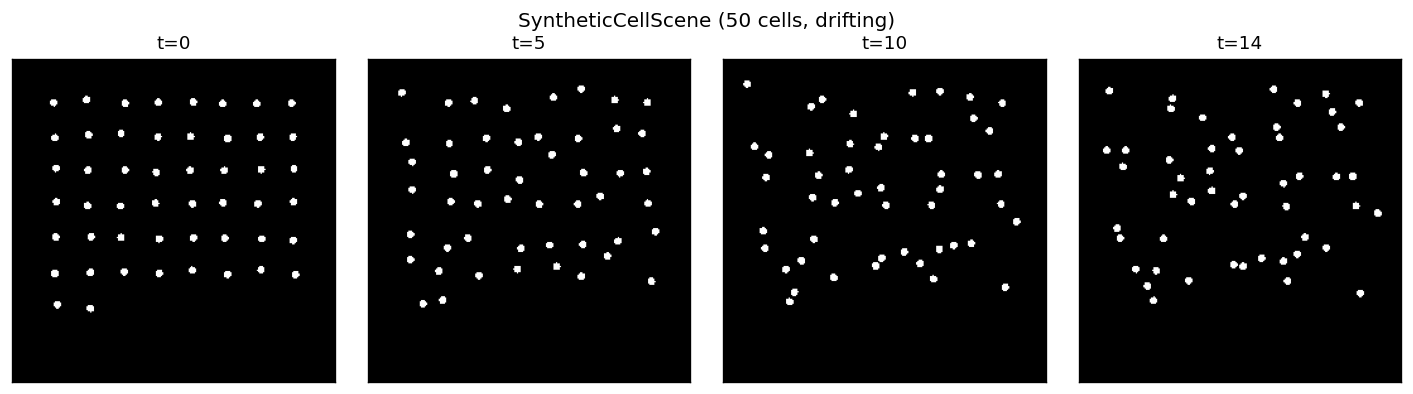
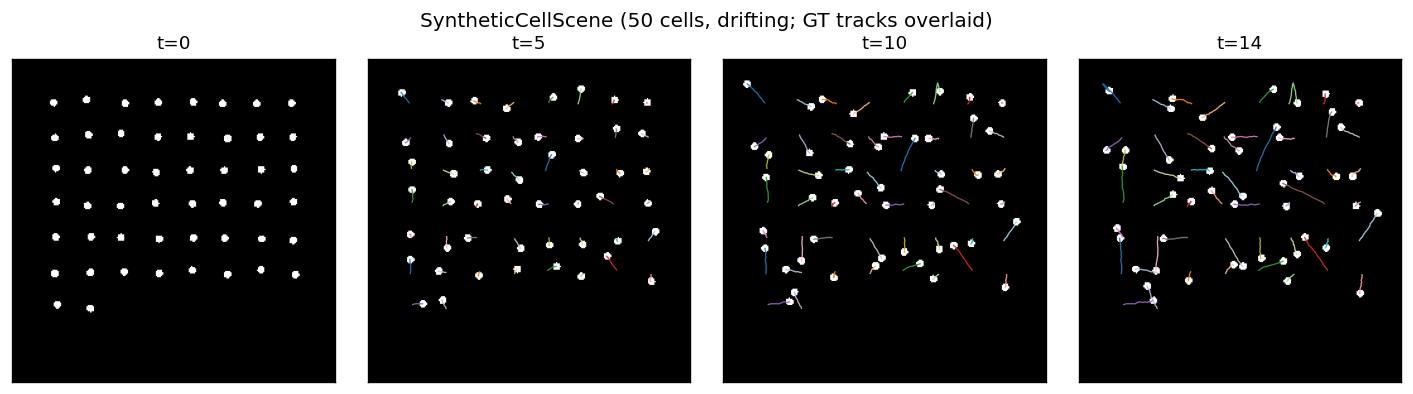
Overlay GT trajectories on synthetic-cells strip
Each cell now carries a coloured line showing its ground-truth path
up to frame t, so the strip conveys drift visually (not just 'these
dots moved') and matches what the tracking-accuracy test is actually
verifying.

diff --git a/tests/assets/generate.py b/tests/assets/generate.py
@@ -47,14 +47,25 @@ def circle_scene() -> None:
 
 def synthetic_cells_strip() -> None:
     scene = SyntheticCellScene(n_cells=50, n_frames=15)
+    gt = np.stack(scene.gt, axis=0)  # (T, N, 2) of (row, col)
+    n_cells = gt.shape[1]
+    cmap = plt.get_cmap("tab20")
+
     fig, axes = plt.subplots(1, 4, figsize=(12, 3.3), dpi=150)
     for ax, t in zip(axes, [0, 5, 10, 14]):
-        img = scene.render(MDAEvent(index={"t": t, "p": 0, "c": 0}))
-        ax.imshow(img, cmap="gray")
+        ax.imshow(scene.render(MDAEvent(index={"t": t, "p": 0, "c": 0})), cmap="gray")
+        if t > 0:
+            # Draw the GT trail up to frame t for every cell, color per cell.
+            for i in range(n_cells):
+                rows = gt[: t + 1, i, 0]
+                cols = gt[: t + 1, i, 1]
+                ax.plot(cols, rows, color=cmap(i % 20), lw=0.8, alpha=0.9)
         ax.set_xticks([])
         ax.set_yticks([])
         ax.set_title(f"t={t}", fontsize=11)
-    fig.suptitle("SyntheticCellScene (50 cells, drifting)", fontsize=12)
+    fig.suptitle(
+        "SyntheticCellScene (50 cells, drifting; GT tracks overlaid)", fontsize=12
+    )
     fig.tight_layout()
     _save(fig, "scene_synthetic_cells.png")
 

diff --git a/tests/README.md b/tests/README.md
@@ -61,7 +61,9 @@ pipeline tests — the segmenter always finds exactly two labels.
 `SyntheticCellScene` (`tests/test_tracking_accuracy.py`): 50 cells
 rendered as small disks with deterministic linear drift plus Brownian
 noise. Used by the tracking-accuracy suite; known per-frame ground
-truth lives on `scene.gt[t]`.
+truth lives on `scene.gt[t]`. The coloured lines are the GT
+trajectories each cell has travelled up to frame `t` — the tracker is
+expected to recover each one as a single particle ID.
 
 ![Stim mask alignment](assets/stim_mask_overlay.png)
 